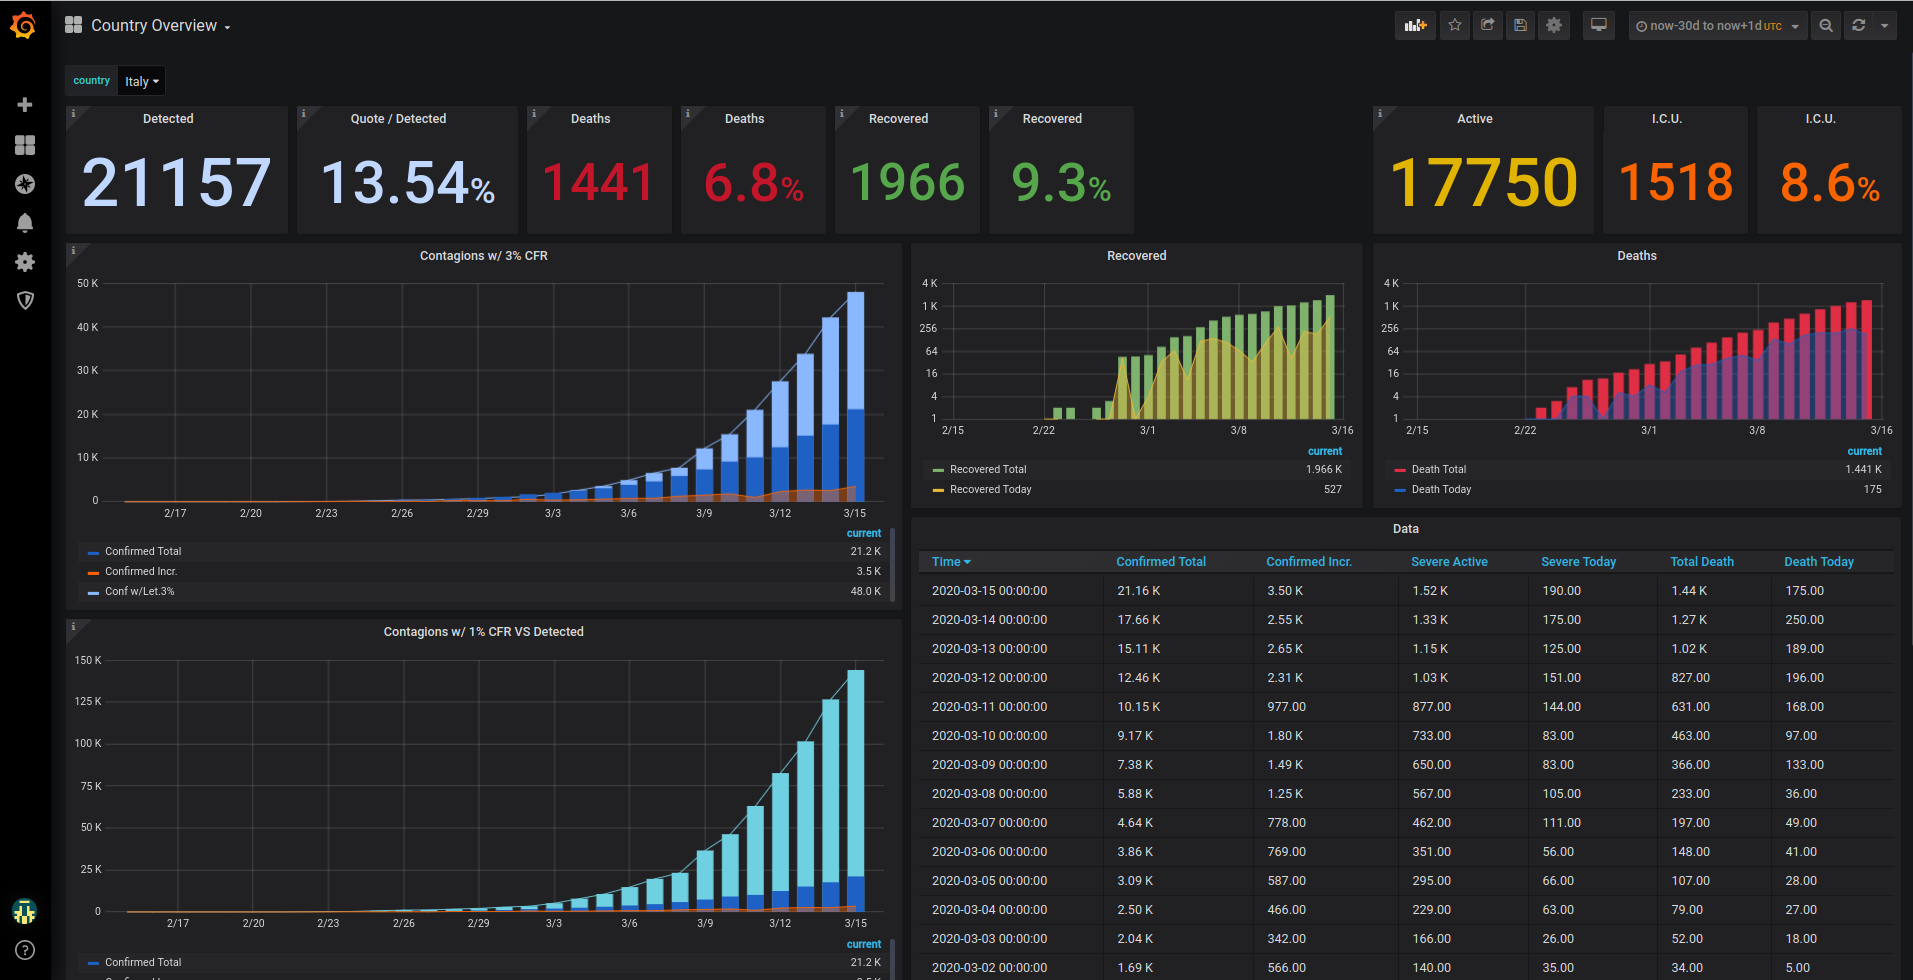
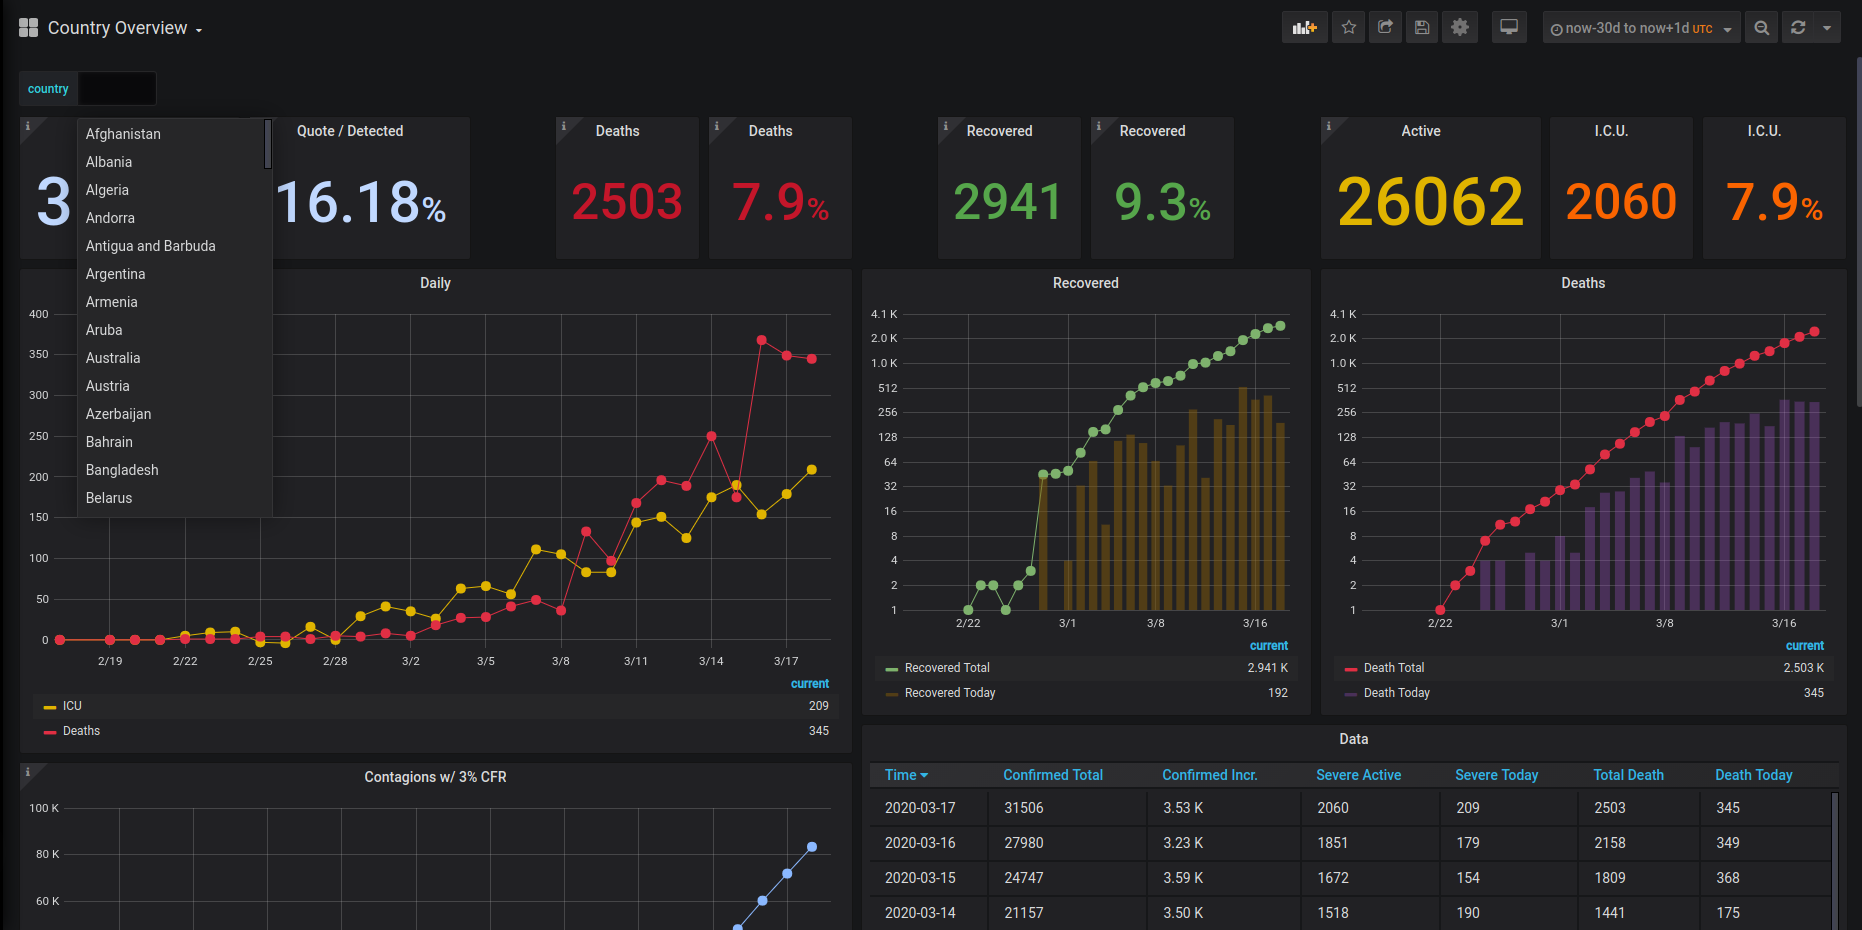
sources

diff --git a/README.md b/README.md
@@ -14,6 +14,11 @@ The dashboard
 
 ![covid19-grafana](https://github.com/gdassori/covid19_data_miner/blob/master/docs/images/country_insight.png?raw=true "covid19 dashboard")
 
+Multiple sources selection
+
+![covid19-grafana](https://github.com/gdassori/covid19_data_miner/blob/master/docs/images/data_sources.png?raw=true "covid19 sources")
+
+
 
 ##### Done:
 - sampler
